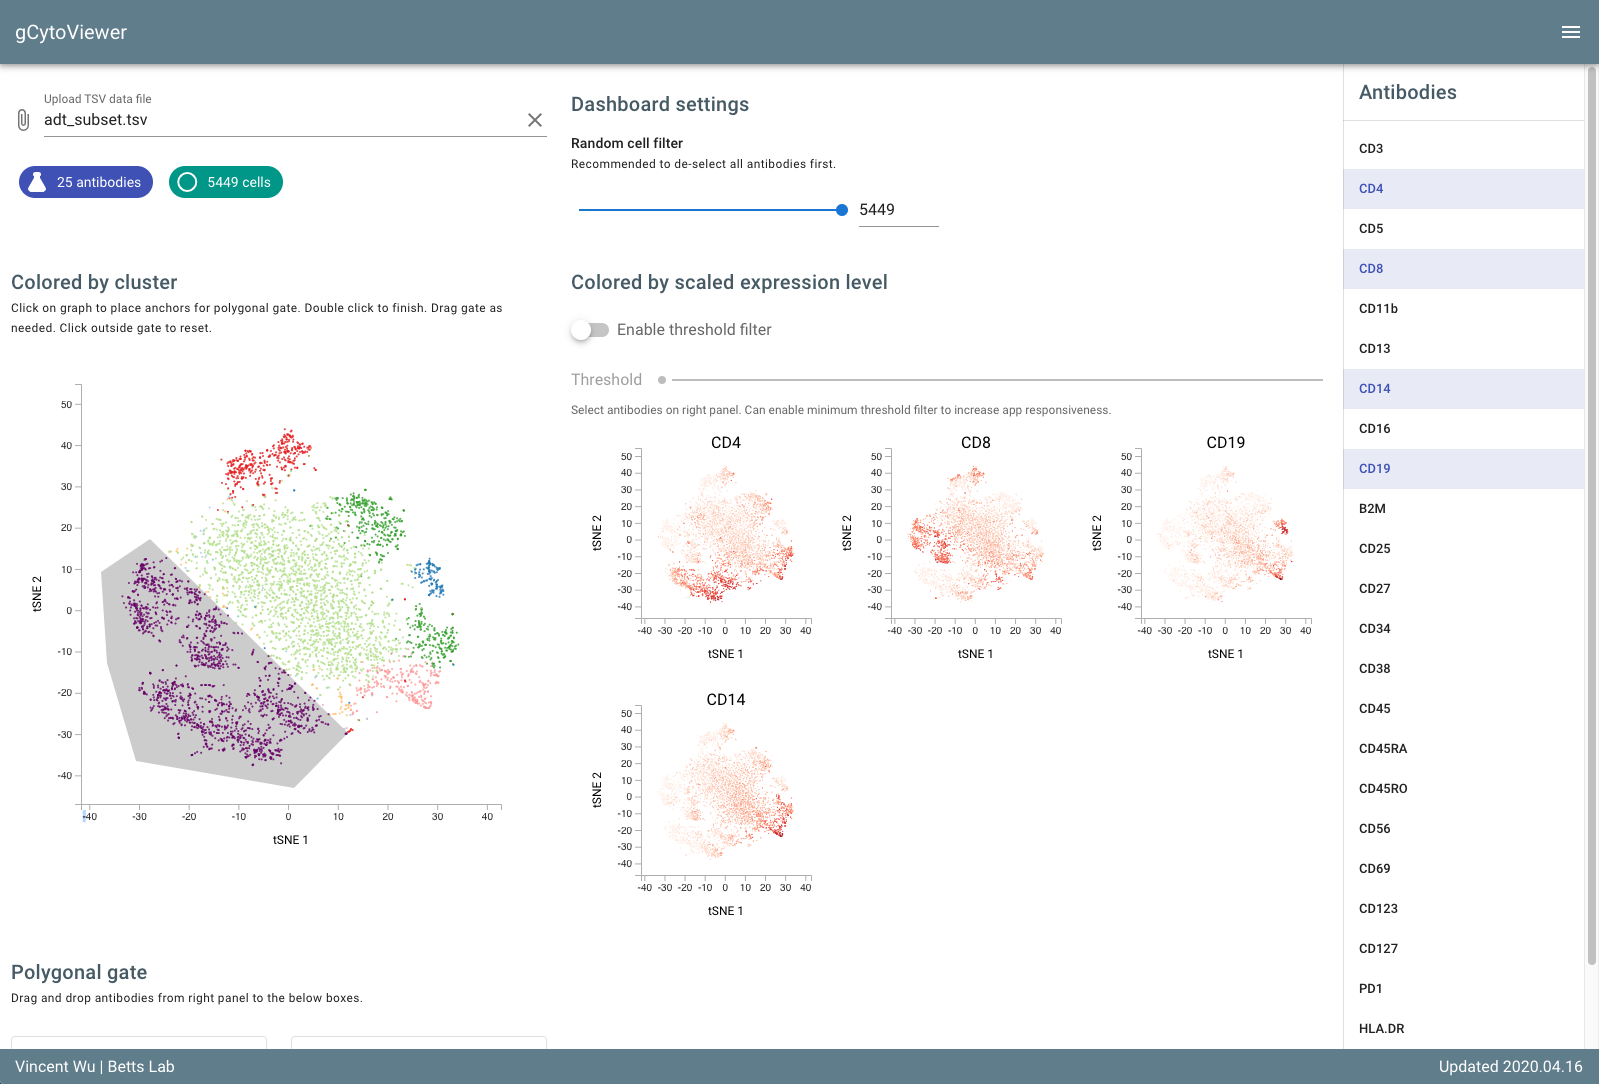
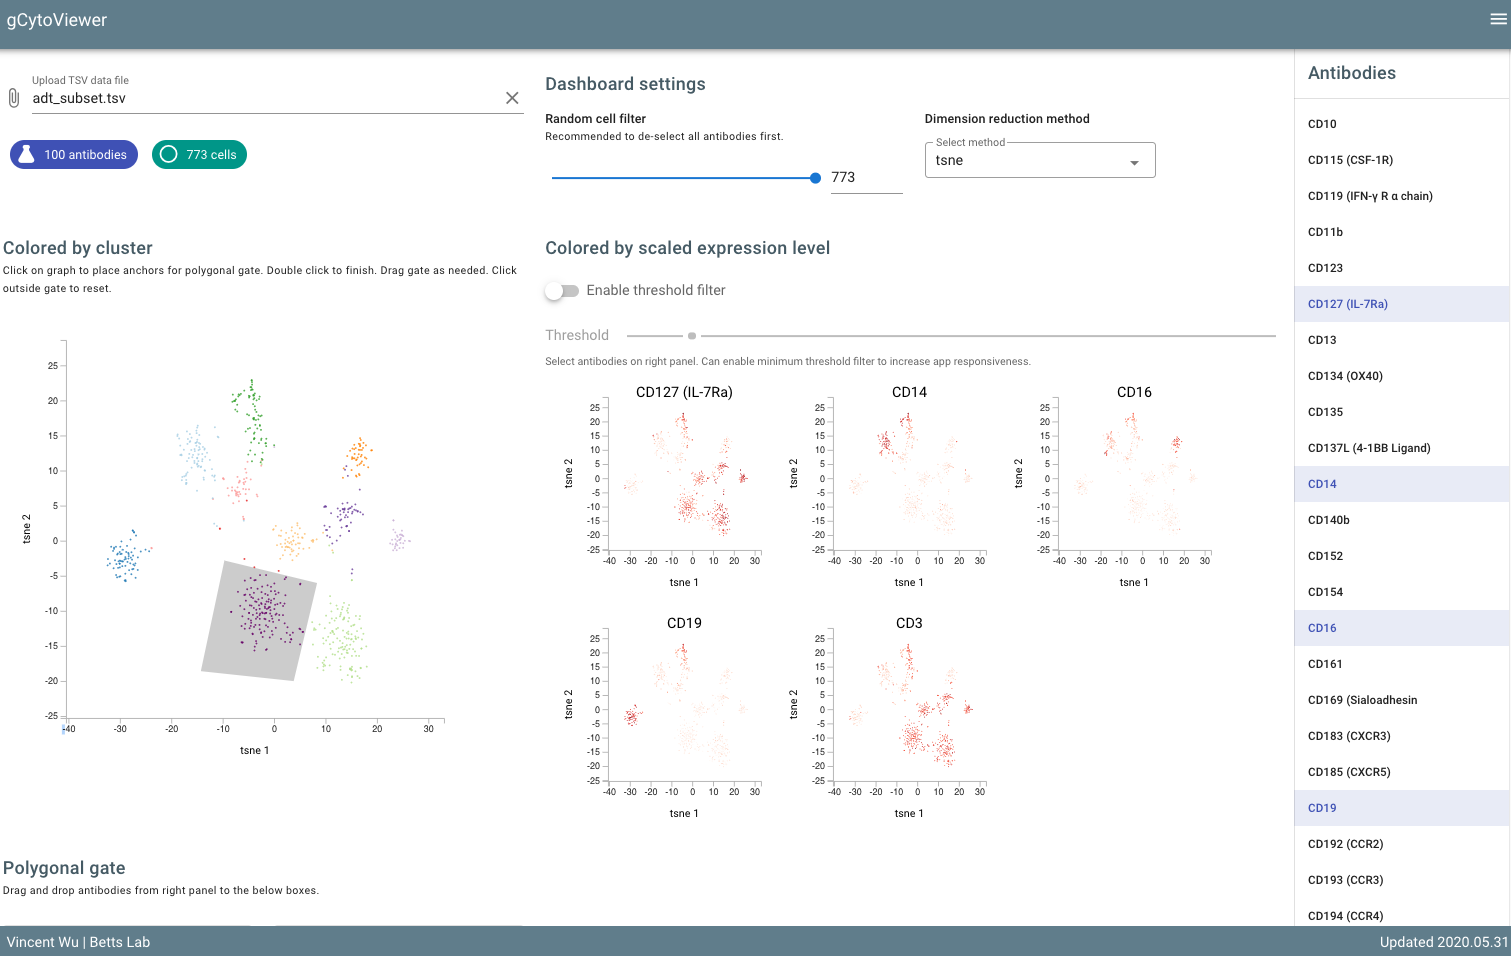
updated readme to address changes

diff --git a/src/App.vue b/src/App.vue
@@ -205,7 +205,7 @@
     >
       <span>Vincent Wu | Betts Lab</span>
       <v-spacer />
-      <span>Updated 2020.04.16</span>
+      <span>Updated 2020.05.31</span>
     </v-footer>
   </v-app>
 </template>

diff --git a/README.md b/README.md
@@ -27,16 +27,24 @@ Steps required to generate TSV file for visualization and analysis
     
     # get scaled expression values and barcode column
     df_scaled_data <- data.frame(t(adt_seu@assays$adt@scale.data)) %>%
-    mutate(barcode = rownames(.))
+        mutate(barcode = rownames(.))
 
-    # get tsne coordinates along with barcode and cluster identity
-    df_tsne <- data.frame(adt_seu@reductions$tsne_adt_postCD45B2M@cell.embeddings) %>%
-        mutate(barcode = rownames(.),
-                cluster = adt_seu$snn_adt_postCD45B2M_res.0.3)
+    # get dim reduction coordinates along with barcode and cluster identity
+    tsne_coords <- adt_seu@reductions$tsne_adt_postCD45@cell.embeddings
+    umap_coords <- adt_seu@reductions$umap@cell.embeddings
+
+    df_final <- data.frame(
+        barcode = rownames(tsne_coords),
+        cluster = adt_seu$snn_postCD45_res.1.5,
+        xaxis_tsne = tsne_coords[, 1],
+        yaxis_tsne = tsne_coords[, 2],
+        xaxis_umap = umap_coords[, 1],
+        yaxis_umap = umap_coords[, 2]
+    )
 
     # merge dataframes and save as TSV (tsv setttings are necessary!)
     df_save <- df_scaled_data %>%
-        left_join(df_tsne, by = "barcode") %>%
+        left_join(df_final, by = "barcode") %>%
         write.table("adt_subset.tsv",
             quote = FALSE,
             col.names = TRUE,
@@ -45,10 +53,10 @@ Steps required to generate TSV file for visualization and analysis
 
     The resultant TSV file will look somewhat like this:
 
-    barcode | tSNE_1 | tSNE_2 | cluster | CD3 | CD4 | CD5 | CD8 | more_markers
-    --- | --- | --- | --- | --- | --- | --- | --- | --- 
-    TCGATGA | 3.214 | 3.2.4125 | 1 | -0.5 | 0.5 | 0.4 | 0.6 | etc...
-    more cells... | | | | | | | 
+    barcode | xaxis_tsne | yaxis_tsne | xaxis_umap | yaxis_umap | cluster | CD3 | CD4 | CD5 | CD8 | more_markers
+    --- | --- | --- | --- | --- | --- | --- | --- | --- | --- | --- | --- 
+    TCGATGA | 3.214 | 3.4125 | -7.4 | 1.5 | 1 | -0.5 | 0.5 | 0.4 | 0.6 | etc...
+    more cells... | | | | | | | | | 
 
     The following columns must exist.
     - barcode
